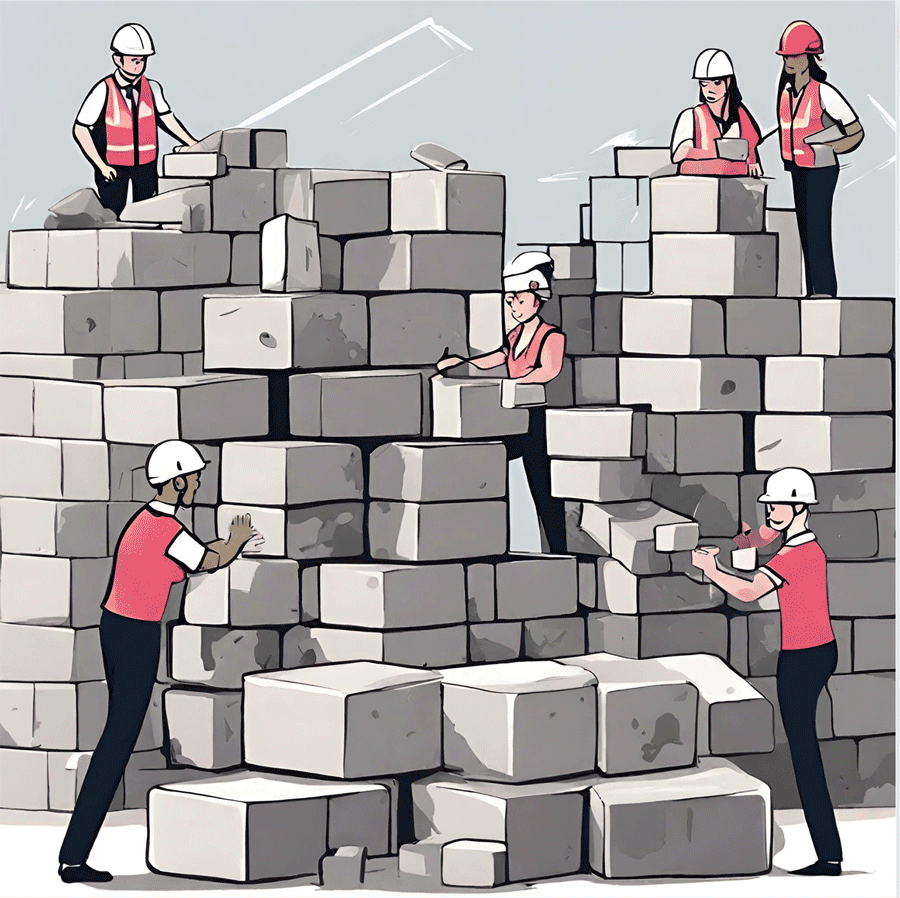
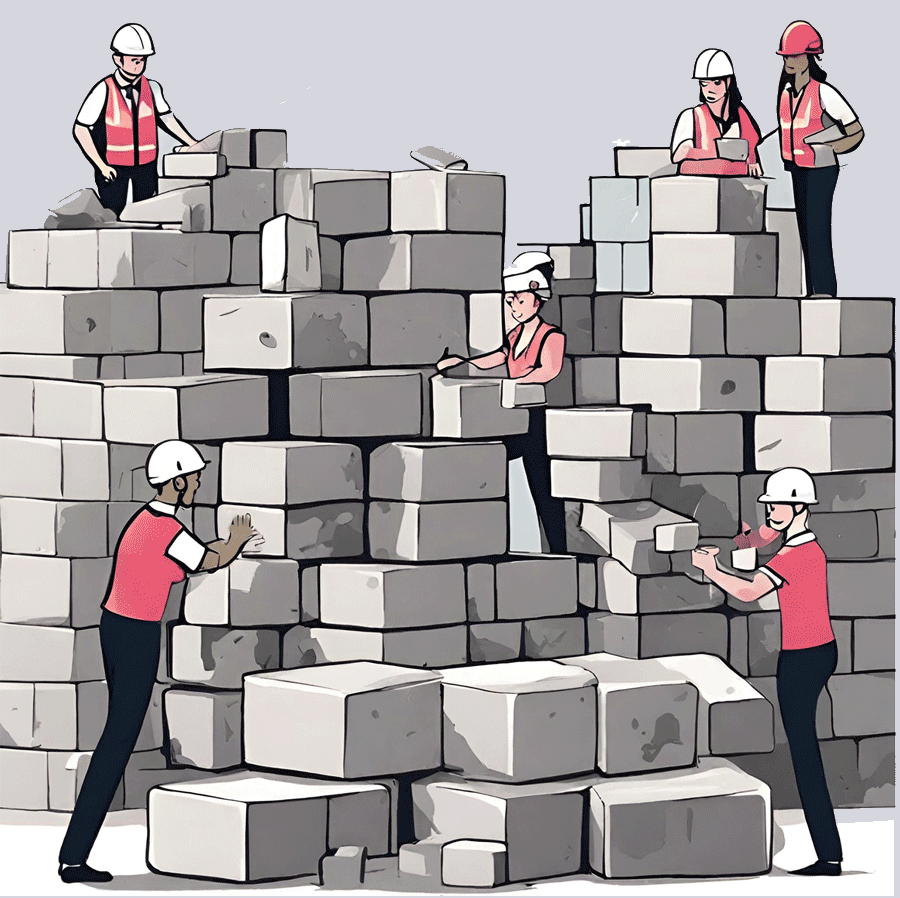
Enh: new packaging landing page w links to guide
Fix: edits from review

diff --git a/_sass/minimal-mistakes/_pyos-cards.scss b/_sass/minimal-mistakes/_pyos-cards.scss
@@ -1,0 +1,65 @@
+.tutorial {
+    font-size: 1em;
+
+    & p.page__meta {
+        padding-top: 1.3em;
+    }
+}
+
+.card .page__meta {
+    font-size:5em!important;
+}
+
+.tutorial__container {
+    display: grid;
+    grid-template-columns: repeat(auto-fill, minmax(300px, 1fr)); // Adjust the minmax values as needed
+    grid-gap: 20px;
+
+    // Ensure all cards have the height of the tallest card
+    align-items: stretch;
+
+    .card {
+        display: flex;
+        flex-direction: column;
+        background-color: #fff;
+        border: 1px solid #ddd;
+        border-radius: 8px;
+        box-shadow: 0 4px 8px rgba(0, 0, 0, 0.1);
+
+        .excerpt {
+            font-size: 1em;
+            padding: 1em;
+        }
+        h4.title {
+            color: rgb(84, 38, 104)!important;
+            font-size: 1.3em;
+            margin: 0;
+        }
+        .title-block {
+            background-color: #F7F2E2;
+            display: flex;
+            height: auto;
+            padding: 1.2em;
+            border-bottom: #555 2px solid;
+        }
+
+        img {
+            width: 100%;
+            height: auto;
+        }
+
+        .content {
+            flex: 1;
+        }
+        ul li {
+            font-size: .9em;
+            margin: 0 0 .5em 0;
+        }
+    }
+
+}
+
+
+.btn--success{
+    color: #000!important;
+}

diff --git a/_includes/tutorial-grid.html b/_includes/tutorial-grid.html
@@ -1,0 +1,27 @@
+
+    <article class="card" itemscope="" itemtype="https://schema.org/CreativeWork">
+        <div class="content">
+          <div class="title-block">
+            <h4 class="title" itemprop="headline">{{ atutorial.title }}</h4>
+          </div>
+      {% if atutorial.excerpt %}
+      <p class="excerpt">
+        {{ atutorial.excerpt }}
+    </p>
+      {% endif %}
+
+    {% if atutorial.subpages %}
+    <ul>
+        {% for page in atutorial.subpages %}
+          <li>
+            <a href="{{ page.url }}">{{ page.name }}</a>
+          </li>
+        {% endfor %}
+      </ul>
+
+    {% endif %}
+  </div>
+    {% if atutorial.btn_label %}
+      <a href="{{ atutorial.url }}" class="btn {{ atutorial.btn_class }}"><i class="fa-solid fa-magnifying-glass"></i> {{ atutorial.btn_label }}</a>
+    {% endif %}
+    </article>

diff --git a/_sass/minimal-mistakes/_variables.scss b/_sass/minimal-mistakes/_variables.scss
@@ -89,7 +89,7 @@ $form-background-color: $lighter-gray !default;
 $footer-background-color: $lighter-gray !default;
 
 $primary-color: #6f777d !default;
-$success-color: #3fa63f !default;
+$success-color: #81c0aa !default;
 $warning-color: #d67f05 !default;
 $danger-color: #ee5f5b !default;
 $info-color: #320e5b !default;

diff --git a/_sass/minimal-mistakes.scss b/_sass/minimal-mistakes.scss
@@ -50,3 +50,4 @@
 @import "minimal-mistakes/pyos-twitter";
 @import "minimal-mistakes/pyos-grid";
 @import "minimal-mistakes/pyos-flowing-page";
+@import "minimal-mistakes/pyos-cards";

diff --git a/_pages/packaging-resources.md b/_pages/packaging-resources.md
@@ -1,7 +1,7 @@
 ---
 layout: splash
 classes: flowing
-permalink: /python-packaging-for-science.html
+permalink: /python-packaging-science.html
 title: "Python packaging resources for scientists"
 excerpt: "We make the scientific Python package ecosystem easier to navigate through peer review and packaging resources."
 header:
@@ -18,8 +18,8 @@ peer-review:
     btn_label: Learn more and get involved with peer review today.
     btn_class: btn--primary
 packaging-easier:
-   - image_path: images/people-building-blocks.jpg
-     alt: "A group of people working on a tetris like set of building blocks, trying to stack the blocks together. "
+   - image_path: images/pyopensci-working-together.png
+     alt: "A black and grey sketch of a group of people sitting at a desk in front of a monitor smiling."
      title: "Get Involved: Help us improve our scientific Python packaging resources"
      excerpt: "
      We need your help! Our packaging content is community-created and reviewed through an open review process on GitHub. The more feedback that we get, the more useful our resources are to the community. Get involved by:
@@ -62,11 +62,11 @@ toc: false
 
 {% include feature_row id="community-created" type="right" %}
 
-### Guidebook sections
+### Scientific Python packaging guidebook sections
 
-<div class="entries-grid">
+<div class="tutorial__container">
 {% for atutorial in site.packaging %}
-  {% include tutorial_grid.html  %}
+  {% include tutorial-grid.html  %}
 {% endfor %}
 </div>
 
@@ -86,9 +86,9 @@ Beginner-friendly Python packaging tutorials that will take you through
 the full process of creating a Python package following modern best
 practices.
 
-<div class="entries-grid">
+<div class="tutorial__container">
 {% for atutorial in site.tutorials %}
-  {% include tutorial_grid.html  %}
+  {% include tutorial-grid.html  %}
 {% endfor %}
 </div>
 
@@ -110,13 +110,3 @@ practices.
 
 
 {% include div_purple_bottom.html  %}
-
-<div class="pyos-section" markdown="1">
-<div class="content" markdown="1">
-
-{% include feature_row id="peer-review" type="right" %}
-
-</div>
-</div>
-
-{% include div_purple_top.html  %}

diff --git a/_packaging/packaging.md b/_packaging/packaging.md
@@ -1,12 +1,15 @@
 ---
-title: "Python package structure"
-excerpt: "
-  This section provides guidance on your Python package’s structure, code formats and style. It also reviews the various packaging tools that you can use to support building and publishing your package."
-learning_objectives:
+title: "Create your Python package structure"
+excerpt: "Learn about the best way to create your Python package."
 subpages:
-    - name: Package structure
-      url:  https://www.pyopensci.org/python-package-guide/package-structure-code/intro.html
-    - name: Build tools package
-      url:  https://www.pyopensci.org/python-package-guide/package-structure-code/intro.html
-url:
+  - name: The structure of a Python package
+    url:  https://www.pyopensci.org/python-package-guide/package-structure-code/python-package-structure.html
+  - name: Add metadata - pyproject.toml file
+    url: https://www.pyopensci.org/python-package-guide/package-structure-code/pyproject-toml-python-package-metadata.html
+  - name: Declare package dependencies
+    url: https://www.pyopensci.org/python-package-guide/package-structure-code/declare-dependencies.html
+  - name: Get to know the ecosystem of Python packaging tools
+    url: https://www.pyopensci.org/python-package-guide/package-structure-code/python-package-build-tools.html
+  - name: Complete package builds
+    url: https://www.pyopensci.org/python-package-guide/package-structure-code/complex-python-package-builds.html
 ---

diff --git a/_tutorials/3-publish-to-pypi.md b/_tutorials/3-publish-to-pypi.md
@@ -1,0 +1,12 @@
+---
+title: "Publish your Python package to PyPI"
+excerpt: "
+  Learn how to publish your Python package to test.PyPI.org and to PyPI.org."
+learning_objectives:
+    - "Build your package’s distributions"
+    - "Setup an account on test PyPI (the process is similar for the real PyPI)"
+    - "Publish your package to test PyPI"
+url: https://www.pyopensci.org/python-package-guide/tutorials/publish-pypi.html
+btn_label: View Tutorial
+btn_class: btn--success btn--large
+---

diff --git a/_tutorials/2-make-code-installable.md b/_tutorials/2-make-code-installable.md
@@ -1,0 +1,10 @@
+---
+title: "Make your Python code installable"
+excerpt: "
+  Learn how to create the most basic version of a Python package which can then be installed into a Python environment."
+learning_objectives:
+    - "Understand what a Python package is"
+url: https://www.pyopensci.org/python-package-guide/tutorials/1-installable-code.html
+btn_label: View Tutorial
+btn_class: btn--success btn--large
+---

diff --git a/_packaging/documentation.md b/_packaging/documentation.md
@@ -1,13 +1,16 @@
 ---
-title: "Documentation"
+title: "Document your Python package"
 excerpt: "Learn about best practices for developing documentation for your Python package."
 learning_objectives:
 subpages:
     - name: Documentation Overview
       url:  https://www.pyopensci.org/python-package-guide/documentation/index.html#
+    - name: Create your docs
+      url: https://www.pyopensci.org/python-package-guide/documentation/write-user-documentation/get-started.html
+    - name: Create package tutorials
+      url: https://www.pyopensci.org/python-package-guide/documentation/write-user-documentation/create-package-tutorials.html
     - name: Document your code (API docs)
       url:  https://www.pyopensci.org/python-package-guide/documentation/write-user-documentation/document-your-code-api-docstrings.html
-    - name: Package tutorials
-      url: https://www.pyopensci.org/python-package-guide/documentation/write-user-documentation/create-package-tutorials.html
+
 url:
 ---

diff --git a/_packaging/publish-python-package.md b/_packaging/publish-python-package.md
@@ -1,9 +1,11 @@
 ---
-title: "Publish your scientific Python package"
+title: "Publish your Python package"
 excerpt: "
   Learn more about the publishing options for your Python package including publishing on PyPI and the conda-forge channel of conda."
 learning_objectives:
 subpages:
+    - name: Build your package for PyPI publication
+      url: https://www.pyopensci.org/python-package-guide/package-structure-code/python-package-distribution-files-sdist-wheel.html
     - name: Publish to PyPI and Conda
       url:  https://www.pyopensci.org/python-package-guide/package-structure-code/publish-python-package-pypi-conda.html#
     - name: Versioning your package

diff --git a/_packaging/tests.md b/_packaging/tests.md
@@ -10,5 +10,9 @@ subpages:
       url:  https://www.pyopensci.org/python-package-guide/tests/write-tests.html
     - name: Three types of types for your Python package
       url:  https://www.pyopensci.org/python-package-guide/tests/test-types.html
+    - name: Run tests locally
+      url: https://www.pyopensci.org/python-package-guide/tests/run-tests.html
+    - name: Run tests online using Continuous Integration
+      url: https://www.pyopensci.org/python-package-guide/tests/tests-ci.html
 url:
 ---

diff --git a/_tutorials/1-what-is-package.md b/_tutorials/1-what-is-package.md
@@ -1,10 +1,12 @@
 ---
 title: "What is a Python package"
 excerpt: "
-  This lesson introduces you to the basic components of a Python package."
+  Learn about what a Python package is and the basic components that make up a Python package."
 learning_objectives:
     - "Understand what a Python package is"
     - "Be able to list the 5 core components of a Python package"
     - "Be able to explain the difference between generalizable code and code that supports a specific scientific application"
 url: https://www.pyopensci.org/python-package-guide/tutorials/intro.html
+btn_label: View Tutorial
+btn_class: btn--success btn--large
 ---